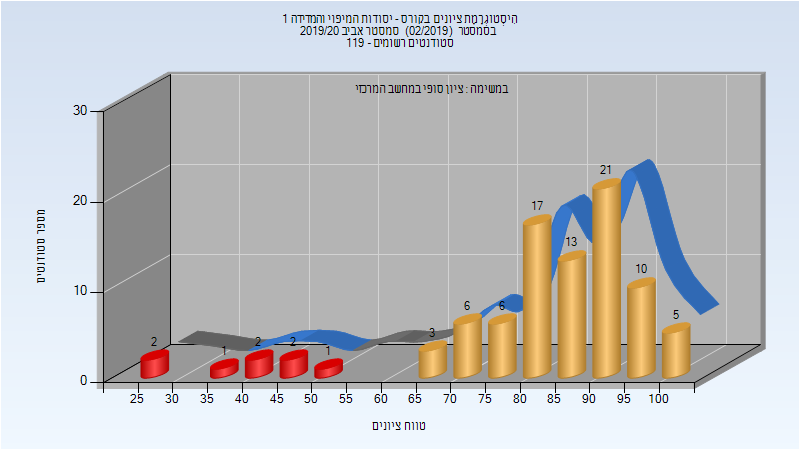
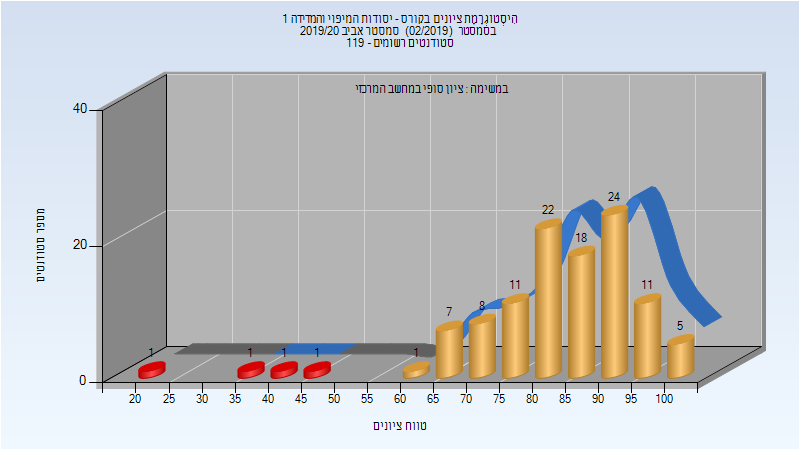
Deploy michael-maltsev/technion-histograms to github.com/michael-maltsev/technion-histograms.git:gh-pages

diff --git a/014841/index.html b/014841/index.html
@@ -1214,13 +1214,13 @@
 </thead>
 <tbody>
 <tr>
-<td>89</td>
-<td>81/8</td>
-<td>91</td>
-<td>27</td>
+<td>111</td>
+<td>107/4</td>
+<td>96</td>
+<td>22</td>
 <td>100</td>
-<td>82.663</td>
-<td>86</td>
+<td>83.432</td>
+<td>85</td>
 </tr>
 </tbody>
 </table>

diff --git a/014841/README.md b/014841/README.md
@@ -361,5 +361,5 @@
 
 | סטודנטים | עברו/נכשלו | אחוז עוברים | ציון מינימלי | ציון מקסימלי | ממוצע | חציון |
 | ---- | ---- | ---- | ---- | ---- | ---- | ---- |
-| 89 | 81/8 | 91 | 27 | 100 | 82.663 | 86 |
+| 111 | 107/4 | 96 | 22 | 100 | 83.432 | 85 |
 
